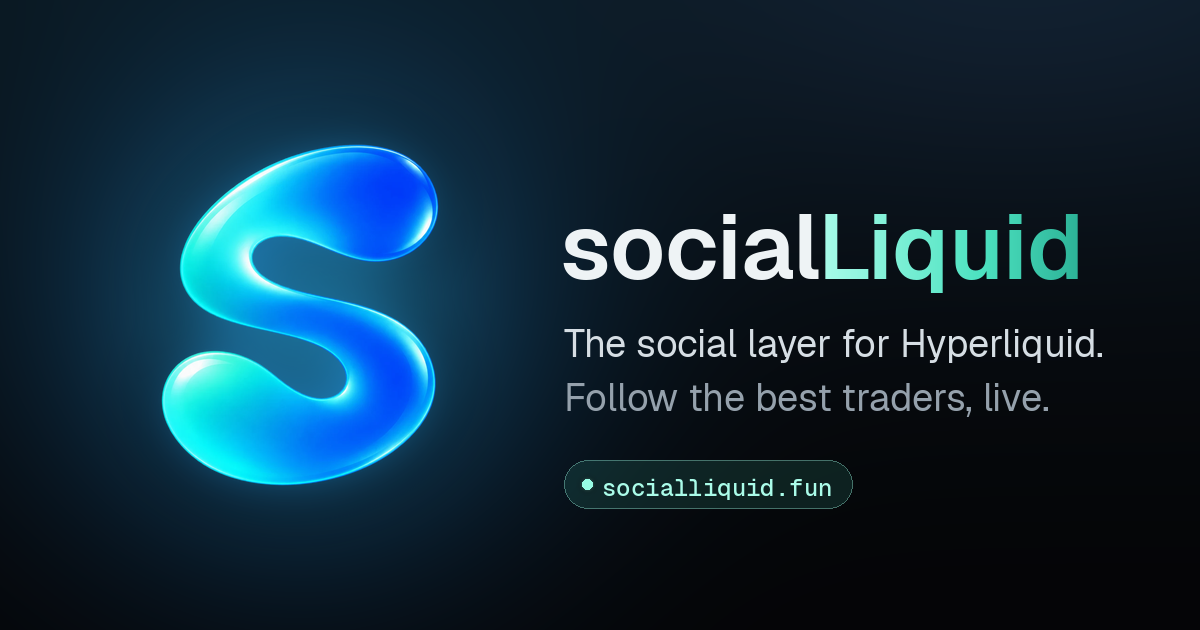
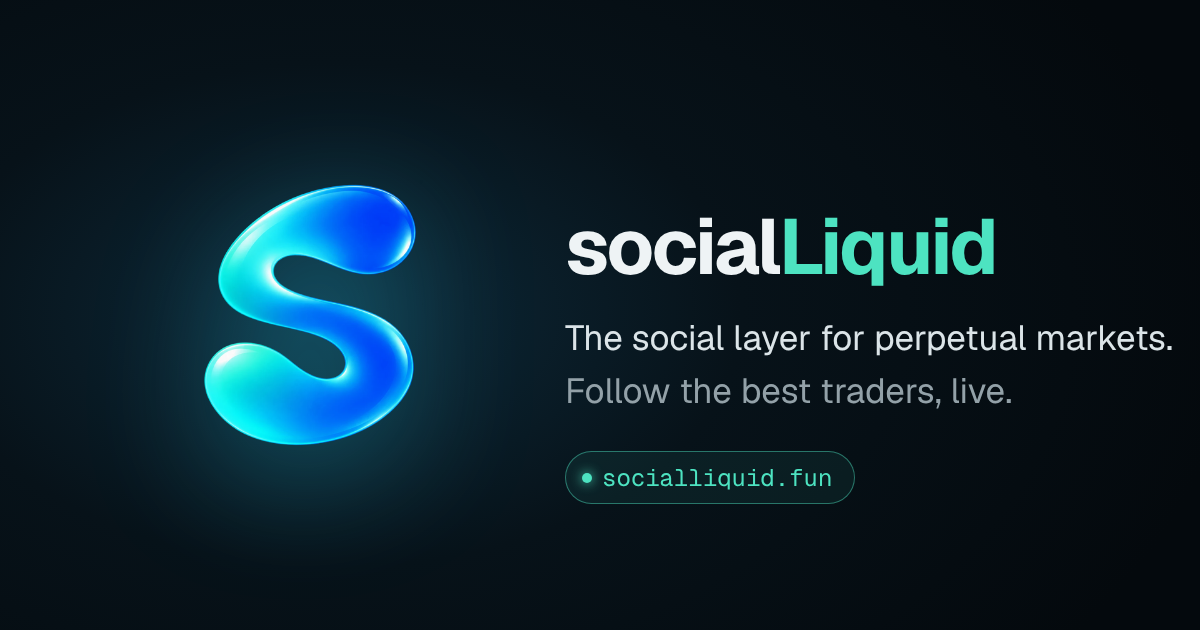
Share images: regenerate with the perpetual markets tagline, keep the card source in scripts/og
Claude-Session: https://claude.ai/code/session_01FZ5Z3WGpiqqapEjsZdwzrr

diff --git a/scripts/og/card.html b/scripts/og/card.html
@@ -1,0 +1,22 @@
+<!doctype html><html><head><meta charset="utf-8"><style>
+@font-face{font-family:G;src:url(../../node_modules/geist/dist/fonts/geist-sans/Geist-Bold.ttf);font-weight:700}
+@font-face{font-family:G;src:url(../../node_modules/geist/dist/fonts/geist-sans/Geist-Regular.ttf);font-weight:400}
+@font-face{font-family:GM;src:url(../../node_modules/geist/dist/fonts/geist-mono/GeistMono-Regular.ttf)}
+html,body{margin:0;width:1200px;height:630px;overflow:hidden}
+body{background:radial-gradient(900px 560px at 28% 50%, #0d2a3a 0%, #071219 45%, #04090d 100%);font-family:G,sans-serif;color:#eef3f5;position:relative}
+.mark{position:absolute;left:150px;top:135px;width:320px;height:360px;object-fit:contain;filter:drop-shadow(0 30px 60px rgba(40,200,230,.35))}
+.text{position:absolute;left:565px;top:208px}
+.word{font-size:78px;font-weight:700;letter-spacing:-.03em;line-height:1}
+.word b{color:#4de3c1;font-weight:700}
+.tag{margin-top:26px;font-size:35px;font-weight:400;line-height:1.5;color:#dbe4e8}
+.tag .dim{color:#93a1a8}
+.pill{display:inline-flex;align-items:center;gap:10px;margin-top:34px;padding:10px 22px 10px 16px;border:1px solid rgba(77,227,193,.45);border-radius:999px;background:rgba(77,227,193,.07);font-family:GM,monospace;font-size:24px;color:#4de3c1}
+.pill i{width:10px;height:10px;border-radius:50%;background:#4de3c1;box-shadow:0 0 12px #4de3c1}
+</style></head><body>
+<img class="mark" src="../../public/brand/mark-512.png">
+<div class="text">
+  <div class="word">social<b>Liquid</b></div>
+  <div class="tag">The social layer for perpetual markets.<br><span class="dim">Follow the best traders, live.</span></div>
+  <div class="pill"><i></i>socialliquid.fun</div>
+</div>
+</body></html>
